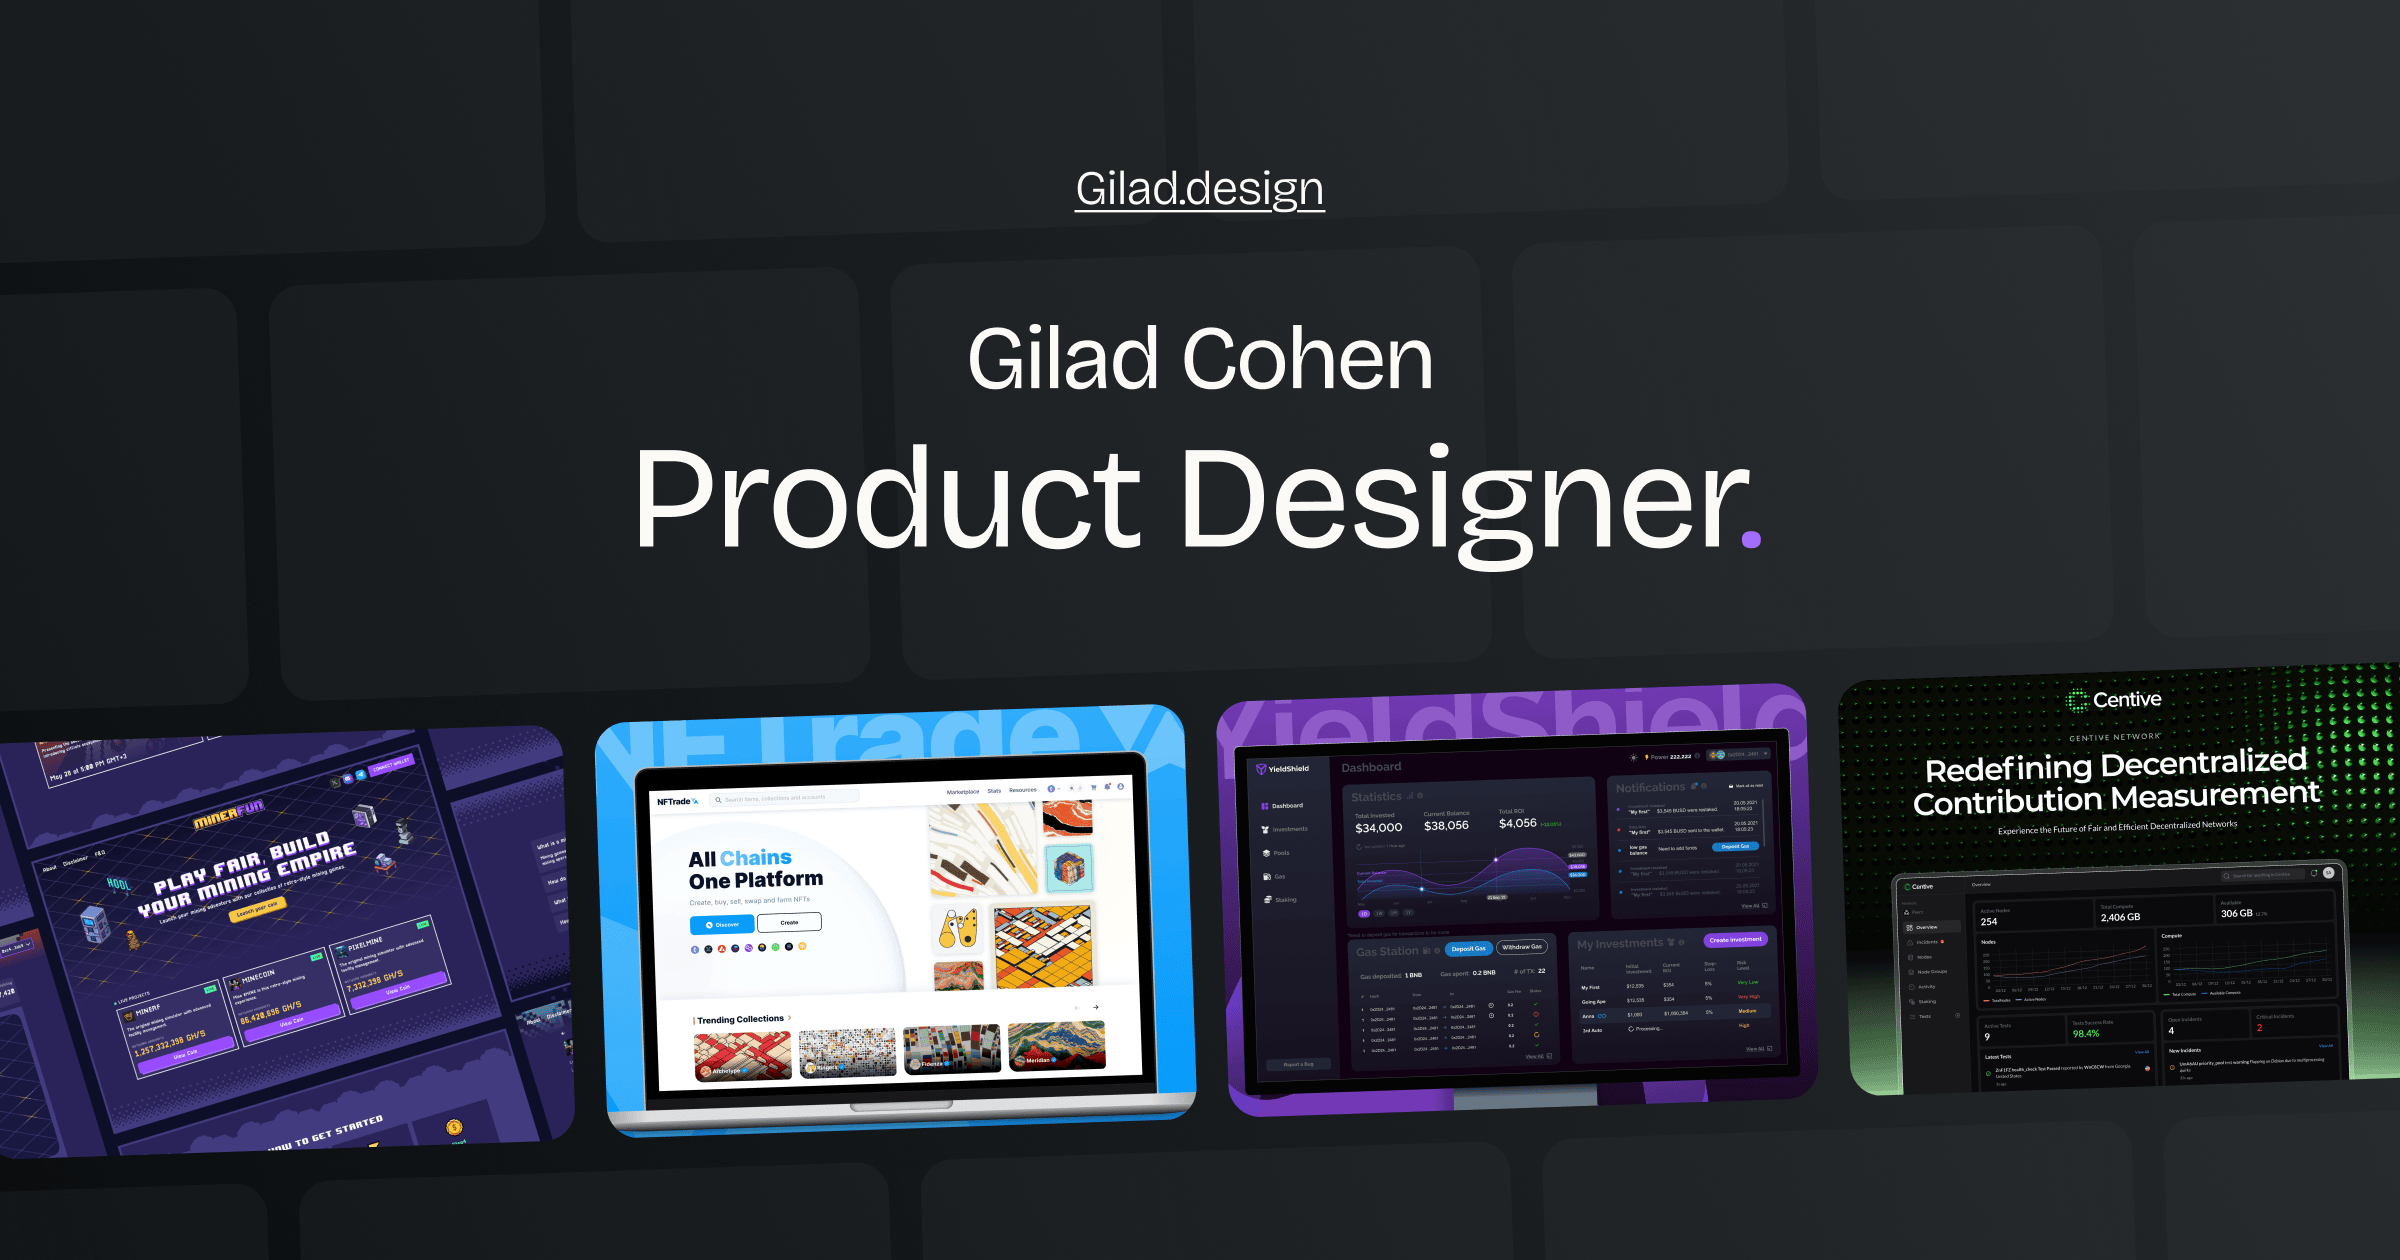
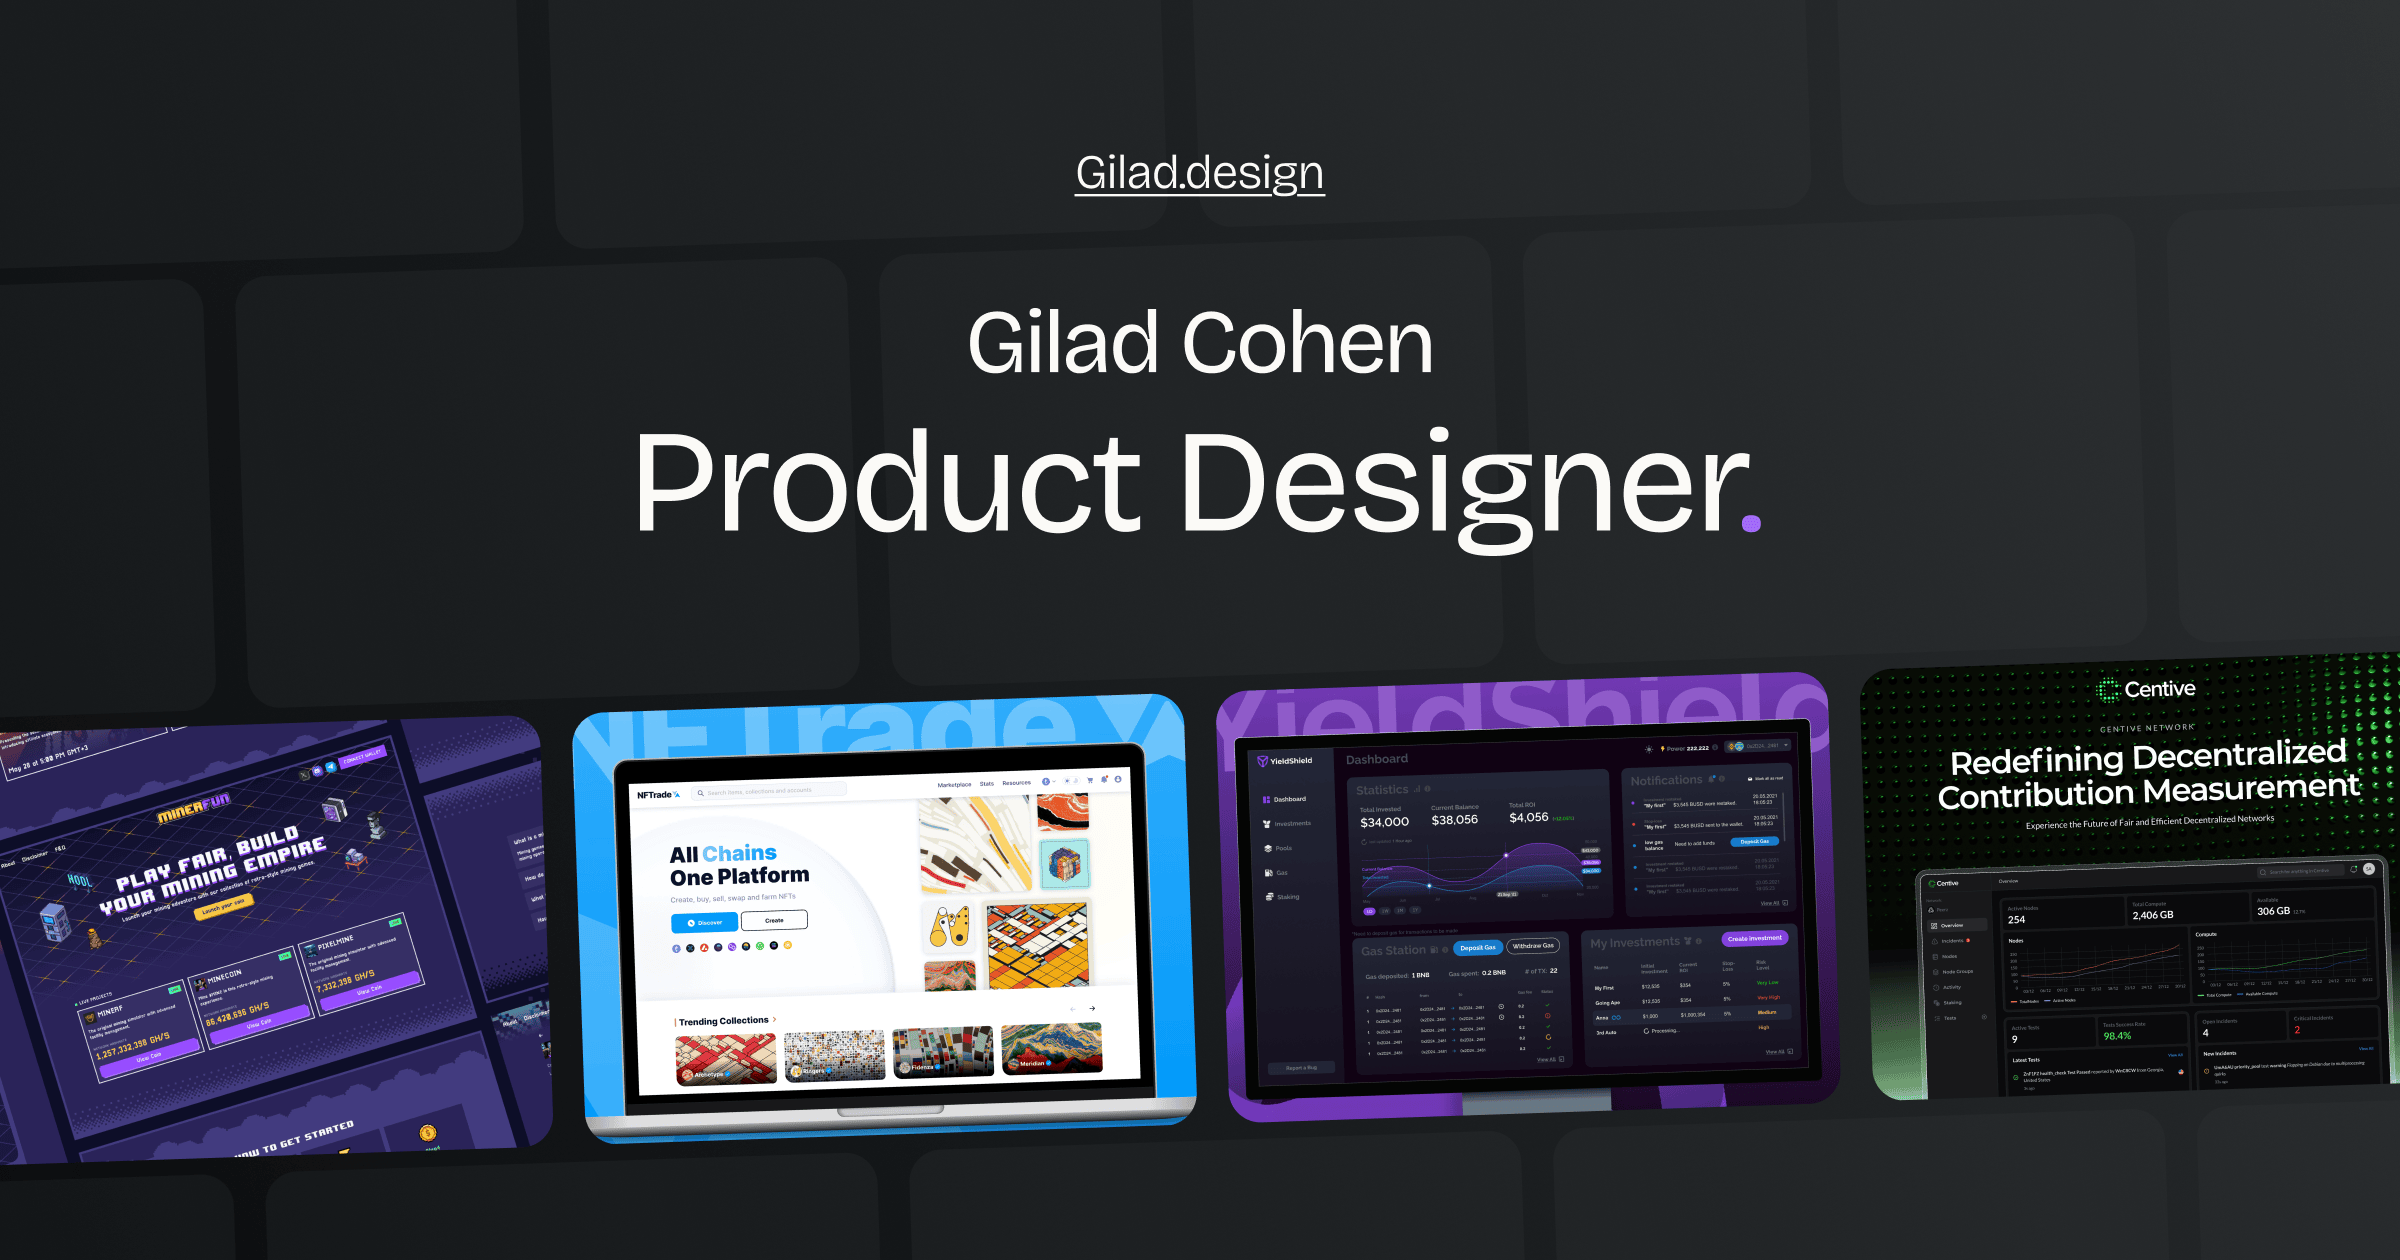
Update the home OG image with the refined layout

diff --git a/index.html b/index.html
@@ -12,13 +12,13 @@
 <meta property="og:url" content="https://gilad.design/" />
 <meta property="og:title" content="Gilad Cohen · Product Designer" />
 <meta property="og:description" content="Product designer: 6+ years in product and UI/UX, 12 in design. UI, visual design, design systems, and complex digital products. Zero-to-one work and redesigns." />
-<meta property="og:image" content="https://gilad.design/assets/og/og-home.png?v=3" />
+<meta property="og:image" content="https://gilad.design/assets/og/og-home.png?v=4" />
 <meta property="og:image:width" content="2400" />
 <meta property="og:image:height" content="1260" />
 <meta name="twitter:card" content="summary_large_image" />
 <meta name="twitter:title" content="Gilad Cohen · Product Designer" />
 <meta name="twitter:description" content="Product designer: 6+ years in product and UI/UX, 12 in design. UI, visual design, design systems, and complex digital products. Zero-to-one work and redesigns." />
-<meta name="twitter:image" content="https://gilad.design/assets/og/og-home.png?v=3" />
+<meta name="twitter:image" content="https://gilad.design/assets/og/og-home.png?v=4" />
 <link rel="icon" href="/favicon.svg" type="image/svg+xml" />
 <link rel="apple-touch-icon" href="/apple-touch-icon.png" />
 <script type="application/ld+json">[
